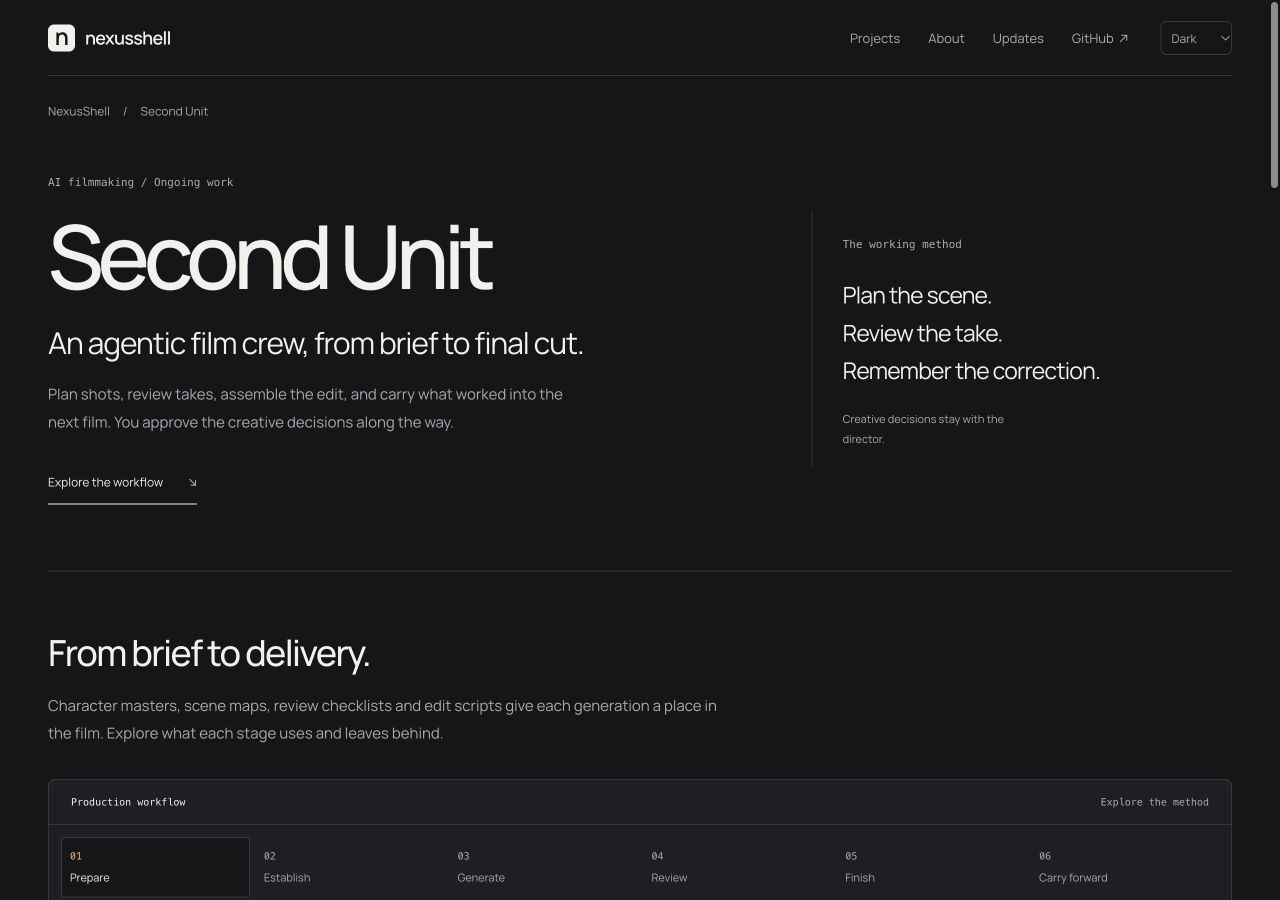
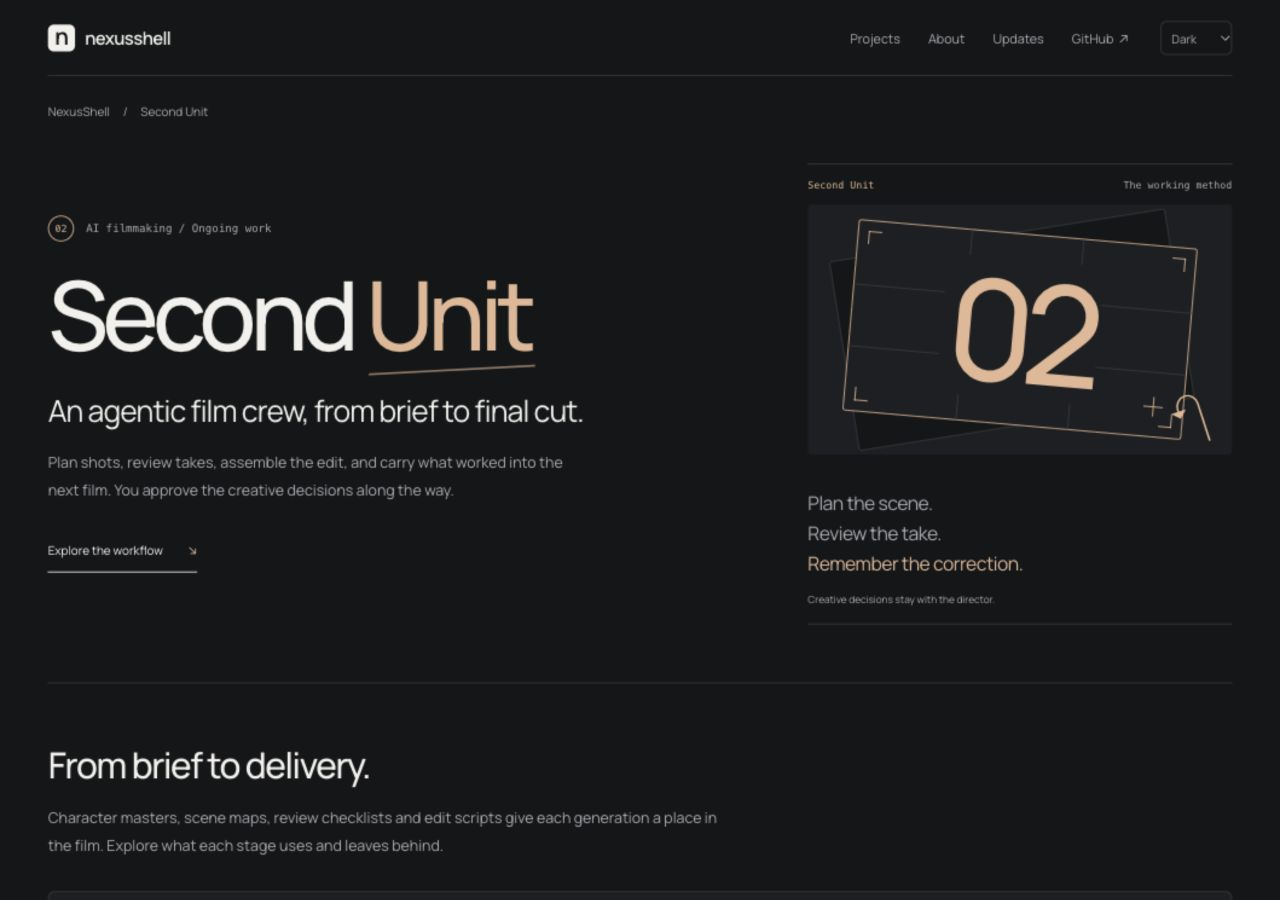
Give Second Unit a film-workshop visual identity

diff --git a/assets/second-unit.css b/assets/second-unit.css
@@ -5,18 +5,38 @@
 .su-page{padding-bottom:36px}
 .su-breadcrumb{display:flex;gap:13px;align-items:center;font-size:12px;color:var(--muted);padding-top:25px}
 .su-breadcrumb a{text-decoration:none}
-.su-hero{display:grid;grid-template-columns:minmax(0,1.65fr) minmax(220px,1fr);gap:70px;align-items:center;padding:52px 0 66px}
-.su-byline{font:11px/1.6 var(--mono);color:var(--muted);margin:0 0 17px}
-.su-hero h1{font-size:clamp(48px,7vw,88px);letter-spacing:-.065em;margin:0 0 20px;line-height:1.08}
+.su-hero{display:grid;grid-template-columns:minmax(0,1.65fr) minmax(260px,1fr);gap:60px;align-items:center;padding:42px 0 58px}
+.su-byline{display:flex;align-items:center;gap:12px;font:11px/1.6 var(--mono);color:var(--muted);margin:0 0 21px}
+.su-byline-mark{display:grid;place-items:center;width:26px;height:26px;border:1px solid var(--accent);color:var(--accent);font-size:10px;border-radius:50%;flex-shrink:0}
+.su-hero h1{font-size:clamp(48px,7.6vw,96px);letter-spacing:-.065em;margin:0 0 25px;line-height:1.08}
+.su-title-unit{position:relative;display:inline-block;color:var(--accent)}
+.su-title-unit:after{content:'';position:absolute;left:2%;right:-3%;bottom:-5px;border-bottom:2px solid var(--accent);transform:rotate(-3deg);opacity:.6}
 .su-headline{font-size:clamp(22px,2.5vw,30px);line-height:1.3;letter-spacing:-.035em;max-width:540px;margin-bottom:18px}
 .su-intro{max-width:530px;font-size:15px;color:var(--muted);line-height:1.85;margin-bottom:25px}
 .su-actions{display:flex;flex-wrap:wrap;gap:18px 27px}
 .su-action{font-size:12px;text-decoration:none;display:inline-flex;gap:25px;align-items:center;min-height:44px;border-bottom:1px solid var(--ink);white-space:nowrap}
 .su-action span{color:var(--accent)}
-.su-hero-note{border-left:1px solid var(--line);padding:16px 0 16px 30px}
-.su-note-label{font:11px var(--mono);color:var(--muted)}
-.su-hero-note p{font-size:23px;letter-spacing:-.035em;line-height:1.65;margin:20px 0}
-.su-hero-note>span:last-child{font-size:11px;line-height:1.8;color:var(--muted);display:block;max-width:180px}
+.su-production-art{margin:0;border-block:1px solid var(--line);min-width:0}
+.su-art-caption{display:flex;justify-content:space-between;gap:14px;padding:12px 0;font:10px/1.6 var(--mono);color:var(--muted)}
+.su-art-caption>span:first-child{color:var(--accent)}
+.su-frame-art{position:relative;height:250px;isolation:isolate;overflow:hidden;background:var(--surface);border-radius:4px}
+.su-art-frame{position:absolute;inset:29px 42px;border:1px solid var(--line);border-radius:3px}
+.su-art-frame-back{background:var(--bg);transform:rotate(-9deg) translate(-8px,-1px)}
+.su-art-frame-front{background:var(--surface);transform:rotate(5deg);display:grid;place-items:center;border-color:var(--accent)}
+.su-art-frame-front:before{content:'';position:absolute;inset:33.333% 0;border-block:1px solid var(--line);pointer-events:none}
+.su-art-frame-front:after{content:'';position:absolute;inset:0 33.333%;border-inline:1px solid var(--line);pointer-events:none}
+.su-art-number{position:relative;z-index:1;font:500 140px/1 Manrope,system-ui,sans-serif;letter-spacing:-.085em;padding-right:.085em;color:var(--accent);background:var(--surface);padding-inline:6px}
+.su-art-corner{position:absolute;width:13px;height:13px;border-color:var(--accent);border-style:solid}
+.su-art-corner-tl{left:10px;top:10px;border-width:1px 0 0 1px}.su-art-corner-tr{right:10px;top:10px;border-width:1px 1px 0 0}
+.su-art-corner-bl{left:10px;bottom:10px;border-width:0 0 1px 1px}.su-art-corner-br{right:10px;bottom:10px;border-width:0 1px 1px 0}
+.su-art-cross{position:absolute;width:19px;height:19px;right:20px;bottom:20px;z-index:2}
+.su-art-cross:before,.su-art-cross:after{content:'';position:absolute;background:var(--accent)}
+.su-art-cross:before{width:19px;height:1px;top:9px}.su-art-cross:after{width:1px;height:19px;left:9px}
+.su-art-arrow{position:absolute;z-index:3;right:16px;bottom:4px;font:400 59px/1 Manrope,system-ui,sans-serif;color:var(--accent);transform:rotate(-18deg)}
+.su-production-art figcaption{padding:20px 0 15px}
+.su-production-art figcaption p{font-size:19px;letter-spacing:-.03em;line-height:1.6;margin:0 0 12px}
+.su-production-art figcaption p>span{color:var(--accent)}
+.su-production-art figcaption>span{font-size:10px;color:var(--muted);line-height:1.8;display:block}
 .su-section{padding:60px 0;border-top:1px solid var(--line);scroll-margin-top:24px}
 .su-section-heading{max-width:680px;margin-bottom:32px}
 .su-section-heading h2{font-size:36px;letter-spacing:-.045em;line-height:1.16;margin-bottom:18px}
@@ -25,9 +45,12 @@
 .su-process-bar{display:flex;justify-content:space-between;gap:16px;padding:14px 22px;border-bottom:1px solid var(--line);font:10px/1.6 var(--mono);color:var(--muted)}
 .su-process-bar>span:first-child{color:var(--ink)}
 .su-stage-controls{display:grid;grid-template-columns:repeat(6,minmax(0,1fr));padding:12px;gap:5px;border-bottom:1px solid var(--line)}
-.su-stage-controls button{border:1px solid transparent;background:transparent;color:var(--muted);padding:10px 8px;border-radius:4px;min-height:55px;font:11px/1.6 Manrope,system-ui,sans-serif;text-align:left}
+.su-stage-controls button{border:1px solid transparent;background:transparent;color:var(--muted);padding:10px 8px;border-radius:4px;min-height:55px;font:11px/1.6 Manrope,system-ui,sans-serif;text-align:left;transition:transform 130ms var(--ease),background 160ms ease,border-color 160ms ease}
+.su-stage-controls button:active{transform:scale(.98)}
+.su-process[data-input=keyboard] .su-stage-controls button{transition:none}
+.su-process[data-input=keyboard] .su-stage-controls button:active{transform:none}
 .su-stage-controls button>span{display:block;font:10px/1.6 var(--mono);margin-bottom:5px}
-.su-stage-controls button[aria-pressed=true]{color:var(--ink);background:var(--bg);border-color:var(--line)}
+.su-stage-controls button[aria-pressed=true]{color:var(--ink);background:var(--bg);border-color:var(--accent)}
 .su-stage-controls button[aria-pressed=true]>span{color:var(--accent)}
 .su-step{display:grid;grid-template-columns:minmax(0,1.1fr) minmax(0,1fr);gap:44px;padding:30px;min-height:343px}
 .su-step+.su-step{border-top:1px solid var(--line)}
@@ -40,6 +63,7 @@
 .su-step-record dt{font:10px/1.6 var(--mono);color:var(--muted);margin-bottom:5px}
 .su-step-record dd{margin:0;font-size:12px;line-height:1.7}
 .su-step-record .su-human dd{color:var(--accent)}
+.su-step-record .su-human{border-top-style:dashed}
 .su-process-bottom{display:flex;justify-content:space-between;gap:15px;border-top:1px solid var(--line);padding:13px 22px;font-size:10px;color:var(--muted)}
 .su-process:not(.su-enhanced) .su-step{min-height:0}
 .su-reviewers{border-bottom:1px solid var(--line)}
@@ -47,7 +71,7 @@
 .su-reviewer summary{display:grid;grid-template-columns:220px 1fr 15px;align-items:center;gap:24px;padding:22px 0;list-style:none;cursor:pointer;font-size:16px;line-height:1.6}
 .su-reviewer summary::-webkit-details-marker{display:none}
 .su-reviewer-role{font-size:15px}
-.su-reviewer-role small{display:block;font:10px/1.6 var(--mono);color:var(--muted);margin-top:5px}
+.su-reviewer-role small{display:block;font:10px/1.6 var(--mono);color:var(--accent);margin-top:5px}
 .su-expand{font-size:23px;font-weight:400;color:var(--accent)}
 .su-reviewer[open] .su-expand{transform:rotate(45deg)}
 .su-reviewer>p{font-size:14px;color:var(--muted);line-height:1.9;max-width:620px;margin:0 0 25px 244px;padding-right:20px}
@@ -57,15 +81,17 @@
 .su-case-label strong{font:500 20px/1.5 Manrope,system-ui,sans-serif;color:var(--ink);letter-spacing:-.025em}
 .su-case-story{max-width:700px}
 .su-case-story>p{font-size:15px;line-height:1.9;color:var(--muted);margin-bottom:20px}
-.su-rule{border-left:2px solid var(--accent);padding:5px 0 5px 23px;margin:28px 0}
+.su-rule{border-left:2px solid var(--accent);padding:22px 24px;margin:28px 0;background:var(--surface);border-radius:0 5px 5px 0;position:relative}
+.su-rule:after{content:'';position:absolute;right:0;top:0;border-left:14px solid var(--line);border-top:14px solid var(--bg)}
 .su-rule>span{font:10px/1.6 var(--mono);color:var(--muted)}
 .su-rule h3{font-size:28px;line-height:1.2;margin:14px 0}
 .su-rule p{font-size:13px;line-height:1.9;color:var(--muted);margin:0;max-width:560px}
 .su-memory{margin-top:40px}
 .su-memory>h3{font-size:23px;margin-bottom:25px}
-.su-memory ol{display:grid;grid-template-columns:repeat(4,minmax(0,1fr));gap:25px;list-style:none;padding:0;margin:0}
-.su-memory li{border-top:1px solid var(--line);padding-top:16px;min-width:0}
-.su-memory li>span{font:10px/1.6 var(--mono);color:var(--accent)}
+.su-memory ol{display:grid;grid-template-columns:repeat(4,minmax(0,1fr));gap:25px;list-style:none;padding:0;margin:0;position:relative}
+.su-memory ol:before{content:'';position:absolute;top:15px;left:15px;right:15px;border-top:1px solid var(--line)}
+.su-memory li{min-width:0;position:relative}
+.su-memory li>span{font:10px/1 var(--mono);color:var(--accent);width:31px;height:31px;display:grid;place-items:center;border:1px solid var(--accent);border-radius:50%;background:var(--bg)}
 .su-memory li h3{font-size:16px;margin:13px 0 9px;letter-spacing:-.025em}
 .su-memory li p{font-size:12px;color:var(--muted);line-height:1.8;margin:0}
 .su-memory-note{font-size:12px;line-height:1.9;color:var(--muted);max-width:730px;margin:25px 0 0}
@@ -112,7 +138,7 @@
 @media(hover:hover) and (pointer:fine){.su-stage-controls button:hover{color:var(--ink);border-color:var(--line)}.su-reviewer summary:hover{color:var(--accent)}}
 @media(max-width:1328px){.second-unit-page .desk-footer{margin-inline:48px}}
 @media(max-width:1000px){.su-hero{gap:38px}.su-step{gap:25px;padding:24px}.su-step h3{font-size:26px}.su-stage-controls{grid-template-columns:repeat(3,minmax(0,1fr))}.su-stage-controls button{display:flex;gap:12px;align-items:center;min-height:44px}.su-stage-controls button>span{margin:0}.su-process-compact .su-step{grid-template-columns:1fr;gap:25px}.su-process-compact .su-step h3{max-width:none}.su-process-compact .su-step-copy>p{max-width:none}.su-process-compact .su-step-record{display:grid;grid-template-columns:1fr 1fr;gap:15px}.su-process-compact .su-step-record>div{border:0;padding:0}.su-reviewer summary{grid-template-columns:180px 1fr 15px}.su-reviewer>p{margin-left:204px}.su-case{grid-template-columns:180px 1fr}.su-adapters>div{grid-template-columns:180px 1fr 75px}.su-record-grid{gap:35px}.su-catalog-method span{margin-inline:5px}}
-@media(max-width:740px){.second-unit-page .wrap{padding-inline:22px}.second-unit-page .site-header .header-inner:after{left:22px;right:22px}.second-unit-page .header-inner{height:auto;min-height:110px}.su-breadcrumb{padding-top:20px;font-size:11px}.su-hero{display:block;padding:35px 0 40px}.su-hero h1{font-size:57px;margin-bottom:18px}.su-byline{font-size:10px}.su-headline{font-size:25px;max-width:400px}.su-intro{font-size:14px}.su-hero-note{margin-top:30px;padding:5px 0 5px 18px}.su-hero-note p{font-size:18px;line-height:1.7;margin:12px 0}.su-hero-note>span:last-child{max-width:none}.su-section{padding:38px 0}.su-section-heading{margin-bottom:25px}.su-section-heading h2{font-size:29px}.su-section-heading>p{font-size:14px}.su-process-bar{padding:12px 15px;font-size:9px}.su-stage-controls{padding:9px;gap:3px}.su-stage-controls button{font-size:10px;padding:8px 5px;gap:7px}.su-step,.su-process-compact .su-step{grid-template-columns:1fr;gap:27px;padding:23px 18px;min-height:0}.su-step h3,.su-process-compact .su-step h3{font-size:27px}.su-step-copy>p,.su-process-compact .su-step-copy>p{font-size:13px;max-width:none}.su-step-record dd{font-size:12px}.su-process-compact .su-step-record{grid-template-columns:1fr;gap:0}.su-process-compact .su-step-record>div{border-top:1px solid var(--line);padding-block:10px}.su-process-compact .su-step-record>div:first-child{border:0;padding-top:0}.su-process-bottom{padding:12px 15px;flex-direction:column;gap:8px;font-size:10px}.su-reviewer summary{grid-template-columns:1fr 15px;gap:12px;padding-block:19px;font-size:14px}.su-reviewer-role{grid-column:1 / 3;font-size:15px;display:flex;align-items:center;gap:15px}.su-reviewer-role small{margin:0}.su-reviewer>p{margin-left:0;font-size:13px;padding-right:20px}.su-case{grid-template-columns:1fr;gap:22px;padding-top:22px}.su-case-label{flex-direction:row;flex-wrap:wrap;align-items:center;gap:10px 18px}.su-case-label strong{order:-1;width:100%;font-size:21px}.su-case-story>p{font-size:14px}.su-rule h3{font-size:26px}.su-rule{padding-left:17px}.su-memory>h3{font-size:22px}.su-memory ol{grid-template-columns:1fr 1fr;gap:23px 18px}.su-record-grid{grid-template-columns:1fr;gap:28px}.su-record-grid p,.su-record-grid li{font-size:13px}.su-adapters>div{grid-template-columns:1fr auto;gap:9px;padding-block:16px}.su-adapters dt{grid-column:1 / 3;font-size:11px}.su-adapters dd{font-size:18px}.su-adapters span{font-size:10px}.su-engine-note{font-size:13px}.su-closing{display:block;padding-top:25px}.su-closing a{margin-top:15px}.second-unit-page .desk-footer{margin-inline:22px;flex-wrap:wrap;font-size:10px}.su-catalog-entry{grid-template-columns:1fr;gap:22px}.su-catalog-entry h3{font-size:28px}.su-catalog-method{text-align:left;font-size:11px}.su-films{grid-template-columns:1fr;gap:35px}}
+@media(max-width:740px){.second-unit-page .wrap{padding-inline:22px}.second-unit-page .site-header .header-inner:after{left:22px;right:22px}.second-unit-page .header-inner{height:auto;min-height:110px}.su-breadcrumb{padding-top:20px;font-size:11px}.su-hero{display:block;padding:35px 0 40px}.su-hero h1{font-size:57px;margin-bottom:18px}.su-byline{font-size:10px}.su-headline{font-size:25px;max-width:400px}.su-intro{font-size:14px}.su-production-art{max-width:420px;margin-top:30px}.su-frame-art{height:210px}.su-art-number{font-size:120px}.su-production-art figcaption p{font-size:18px;line-height:1.6}.su-production-art figcaption{padding-top:17px}.su-section{padding:38px 0}.su-section-heading{margin-bottom:25px}.su-section-heading h2{font-size:29px}.su-section-heading>p{font-size:14px}.su-process-bar{padding:12px 15px;font-size:9px}.su-stage-controls{padding:9px;gap:3px}.su-stage-controls button{font-size:10px;padding:8px 5px;gap:7px}.su-step,.su-process-compact .su-step{grid-template-columns:1fr;gap:27px;padding:23px 18px;min-height:0}.su-step h3,.su-process-compact .su-step h3{font-size:27px}.su-step-copy>p,.su-process-compact .su-step-copy>p{font-size:13px;max-width:none}.su-step-record dd{font-size:12px}.su-process-compact .su-step-record{grid-template-columns:1fr;gap:0}.su-process-compact .su-step-record>div{border-top:1px solid var(--line);padding-block:10px}.su-process-compact .su-step-record>div:first-child{border:0;padding-top:0}.su-process-bottom{padding:12px 15px;flex-direction:column;gap:8px;font-size:10px}.su-reviewer summary{grid-template-columns:1fr 15px;gap:12px;padding-block:19px;font-size:14px}.su-reviewer-role{grid-column:1 / 3;font-size:15px;display:flex;align-items:center;gap:15px}.su-reviewer-role small{margin:0}.su-reviewer>p{margin-left:0;font-size:13px;padding-right:20px}.su-case{grid-template-columns:1fr;gap:22px;padding-top:22px}.su-case-label{flex-direction:row;flex-wrap:wrap;align-items:center;gap:10px 18px}.su-case-label strong{order:-1;width:100%;font-size:21px}.su-case-story>p{font-size:14px}.su-rule h3{font-size:26px}.su-rule{padding-left:17px}.su-memory>h3{font-size:22px}.su-memory ol{grid-template-columns:1fr 1fr;gap:23px 18px}.su-memory ol:before{display:none}.su-record-grid{grid-template-columns:1fr;gap:28px}.su-record-grid p,.su-record-grid li{font-size:13px}.su-adapters>div{grid-template-columns:1fr auto;gap:9px;padding-block:16px}.su-adapters dt{grid-column:1 / 3;font-size:11px}.su-adapters dd{font-size:18px}.su-adapters span{font-size:10px}.su-engine-note{font-size:13px}.su-closing{display:block;padding-top:25px}.su-closing a{margin-top:15px}.second-unit-page .desk-footer{margin-inline:22px;flex-wrap:wrap;font-size:10px}.su-catalog-entry{grid-template-columns:1fr;gap:22px}.su-catalog-entry h3{font-size:28px}.su-catalog-method{text-align:left;font-size:11px}.su-films{grid-template-columns:1fr;gap:35px}}
 @media(max-width:370px){.second-unit-page .wrap{padding-inline:16px}.second-unit-page .site-header .header-inner:after{left:16px;right:16px}.su-hero h1{font-size:48px}.su-headline{font-size:23px}.su-step,.su-process-compact .su-step{padding-inline:14px}.su-stage-controls{grid-template-columns:repeat(2,minmax(0,1fr))}.su-stage-controls button{padding-inline:8px}.su-memory ol{gap:22px 14px}.su-memory li p{font-size:11px}.second-unit-page .desk-footer{margin-inline:16px}}
 @media(prefers-reduced-motion:reduce){.su-page *,[data-su-process] *{transition:none!important;animation:none!important}}
 @media(max-width:740px){.project-switcher .shelf-project[data-project-link=second-unit]{grid-column:1 / -1}}

diff --git a/second-unit/index.html b/second-unit/index.html
@@ -6,7 +6,7 @@
 <link rel="icon" href="/assets/favicon.svg" type="image/svg+xml"><link rel="preload" href="/assets/fonts/manrope-regular.ttf" as="font" type="font/ttf" crossorigin>
 <script>try{const t=localStorage.getItem('nexusshell-theme');if(t==='light'||t==='dark')document.documentElement.dataset.theme=t;}catch(_){}</script>
 <link rel="stylesheet" href="/assets/site.css?v=fcadb1ce42b3"><script defer src="/assets/site.js?v=e8c140962dc2"></script>
-<link rel="stylesheet" href="/assets/second-unit.css?v=6aa7ab784cf5"><script defer src="/assets/second-unit.js?v=14a30176ee07"></script><script type="application/ld+json">{"@context": "https://schema.org", "@type": "WebPage", "name": "Second Unit | Agentic film production | NexusShell", "url": "https://nexusshell.dev/second-unit/", "isPartOf": {"@type": "WebSite", "name": "NexusShell", "url": "https://nexusshell.dev/"}}</script>
+<link rel="stylesheet" href="/assets/second-unit.css?v=7bcee63542ef"><script defer src="/assets/second-unit.js?v=9f730068cdc5"></script><script type="application/ld+json">{"@context": "https://schema.org", "@type": "WebPage", "name": "Second Unit | Agentic film production | NexusShell", "url": "https://nexusshell.dev/second-unit/", "isPartOf": {"@type": "WebSite", "name": "NexusShell", "url": "https://nexusshell.dev/"}}</script>
 </head><body class="inner-page second-unit-page"><a class="skip-link" href="#main">Skip to content</a>
 <header class="site-header"><div class="wrap header-inner">
 <a class="brand" href="/" aria-label="NexusShell home"><span class="brand-mark" aria-hidden="true">n</span>nexusshell</a>
@@ -14,7 +14,7 @@
 <label class="sr-only" for="theme">Appearance</label><select class="theme-control" id="theme" data-theme-select hidden><option value="system">System</option><option value="light">Light</option><option value="dark">Dark</option></select>
 </div></header><main id="main" class="wrap"><article class="su-page">
 <nav class="su-breadcrumb" aria-label="Breadcrumb"><a href="/">NexusShell</a><span aria-hidden="true">/</span><span>Second Unit</span></nav>
-<header class="su-hero"><div><p class="su-byline">AI filmmaking / Ongoing work</p><h1>Second Unit</h1><p class="su-headline">An agentic film crew, from brief to final cut.</p><p class="su-intro">Plan shots, review takes, assemble the edit, and carry what worked into the next film. You approve the creative decisions along the way.</p><div class="su-actions"><a class="su-action" href="#workflow">Explore the workflow <span aria-hidden="true">↘</span></a></div></div><aside class="su-hero-note"><span class="su-note-label">The working method</span><p>Plan the scene.<br>Review the take.<br>Remember the correction.</p><span>Creative decisions stay with the director.</span></aside></header>
+<header class="su-hero"><div><p class="su-byline"><span class="su-byline-mark" aria-hidden="true">02</span> AI filmmaking / Ongoing work</p><h1>Second <span class="su-title-unit">Unit</span></h1><p class="su-headline">An agentic film crew, from brief to final cut.</p><p class="su-intro">Plan shots, review takes, assemble the edit, and carry what worked into the next film. You approve the creative decisions along the way.</p><div class="su-actions"><a class="su-action" href="#workflow">Explore the workflow <span aria-hidden="true">↘</span></a></div></div><figure class="su-production-art"><div class="su-art-caption"><span>Second Unit</span><span>The working method</span></div><div class="su-frame-art" aria-hidden="true"><div class="su-art-frame su-art-frame-back"></div><div class="su-art-frame su-art-frame-front"><span class="su-art-corner su-art-corner-tl"></span><span class="su-art-corner su-art-corner-tr"></span><span class="su-art-number">02</span><span class="su-art-corner su-art-corner-bl"></span><span class="su-art-corner su-art-corner-br"></span><span class="su-art-cross"></span></div><span class="su-art-arrow">↶</span></div><figcaption><p>Plan the scene.<br>Review the take.<br><span>Remember the correction.</span></p><span>Creative decisions stay with the director.</span></figcaption></figure></header>
 
 <section class="su-section su-workflow" id="workflow"><div class="su-section-heading"><h2>From brief to delivery.</h2><p>Character masters, scene maps, review checklists and edit scripts give each generation a place in the film. Explore what each stage uses and leaves behind.</p></div><div class="su-process " data-su-process><div class="su-process-bar"><span>Production workflow</span><span>Explore the method</span></div><div class="su-stage-controls" role="group" aria-label="Production stages" hidden><button type="button" data-su-step="0" aria-controls="production-prepare" aria-pressed="true"><span>01</span>Prepare</button><button type="button" data-su-step="1" aria-controls="production-establish" aria-pressed="false"><span>02</span>Establish</button><button type="button" data-su-step="2" aria-controls="production-generate" aria-pressed="false"><span>03</span>Generate</button><button type="button" data-su-step="3" aria-controls="production-review" aria-pressed="false"><span>04</span>Review</button><button type="button" data-su-step="4" aria-controls="production-finish" aria-pressed="false"><span>05</span>Finish</button><button type="button" data-su-step="5" aria-controls="production-carry-forward" aria-pressed="false"><span>06</span>Carry forward</button></div><div class="su-process-output" aria-live="polite" aria-atomic="true"><section class="su-step" id="production-prepare" data-su-frame="0" aria-labelledby="production-heading-0">
 <div class="su-step-copy"><span class="su-step-index">01 / 06 · Prepare</span><h3 id="production-heading-0">Give the film a direction.</h3><p>Start with the brief, budget and acceptance criteria. Analyse references for composition, light, colour and rhythm, then turn those observations into a story and a shot plan.</p></div>

diff --git a/index.html b/index.html
@@ -6,7 +6,7 @@
 <link rel="icon" href="/assets/favicon.svg" type="image/svg+xml"><link rel="preload" href="/assets/fonts/manrope-regular.ttf" as="font" type="font/ttf" crossorigin>
 <script>try{const t=localStorage.getItem('nexusshell-theme');if(t==='light'||t==='dark')document.documentElement.dataset.theme=t;}catch(_){}</script>
 <link rel="stylesheet" href="/assets/site.css?v=fcadb1ce42b3"><script defer src="/assets/site.js?v=e8c140962dc2"></script>
-<link rel="stylesheet" href="/assets/desk.css?v=022ca652bf5d"><script defer src="/assets/desk.js?v=d6f63cbc9ed2"></script><link rel="stylesheet" href="/assets/second-unit.css?v=6aa7ab784cf5"><script defer src="/assets/second-unit.js?v=14a30176ee07"></script><script type="application/ld+json">{"@context": "https://schema.org", "@type": "WebPage", "name": "NexusShell | Vadik’s project desk", "url": "https://nexusshell.dev/", "isPartOf": {"@type": "WebSite", "name": "NexusShell", "url": "https://nexusshell.dev/"}}</script>
+<link rel="stylesheet" href="/assets/desk.css?v=022ca652bf5d"><script defer src="/assets/desk.js?v=d6f63cbc9ed2"></script><link rel="stylesheet" href="/assets/second-unit.css?v=7bcee63542ef"><script defer src="/assets/second-unit.js?v=9f730068cdc5"></script><script type="application/ld+json">{"@context": "https://schema.org", "@type": "WebPage", "name": "NexusShell | Vadik’s project desk", "url": "https://nexusshell.dev/", "isPartOf": {"@type": "WebSite", "name": "NexusShell", "url": "https://nexusshell.dev/"}}</script>
 </head><body class="home-page"><a class="skip-link" href="#main">Skip to content</a>
 <header class="site-header"><div class="wrap header-inner">
 <a class="brand" href="/" aria-label="NexusShell home"><span class="brand-mark" aria-hidden="true">n</span>nexusshell</a>

diff --git a/assets/second-unit.js b/assets/second-unit.js
@@ -4,12 +4,27 @@
     const buttons = [...process.querySelectorAll('[data-su-step]')];
     const frames = [...process.querySelectorAll('[data-su-frame]')];
     if (!controls || buttons.length !== frames.length || !frames.length) return;
-    function select(index) {
+    const reducedMotion = window.matchMedia('(prefers-reduced-motion: reduce)');
+    let selected = -1;
+    let transition = null;
+    process.addEventListener('keydown', () => { process.dataset.input = 'keyboard'; });
+    process.addEventListener('pointerdown', () => { process.dataset.input = 'pointer'; });
+    function select(index, pointer = false) {
+      if (selected === index) return;
+      transition?.cancel();
+      transition = null;
       buttons.forEach((button, i) => button.setAttribute('aria-pressed', String(i === index)));
       frames.forEach((frame, i) => { frame.hidden = i !== index; });
+      selected = index;
+      if (pointer && !reducedMotion.matches && typeof frames[index].animate === 'function') {
+        transition = frames[index].animate(
+          [{ opacity: .55, transform: 'translateY(5px)' }, { opacity: 1, transform: 'translateY(0)' }],
+          { duration: 180, easing: 'cubic-bezier(.23,1,.32,1)' }
+        );
+      }
     }
     buttons.forEach((button, index) => {
-      button.addEventListener('click', () => select(index));
+      button.addEventListener('click', event => select(index, event.detail > 0));
       button.addEventListener('keydown', event => {
         let next;
         if (event.key === 'ArrowRight' || event.key === 'ArrowDown') next = (index + 1) % buttons.length;

diff --git a/projects/index.html b/projects/index.html
@@ -6,7 +6,7 @@
 <link rel="icon" href="/assets/favicon.svg" type="image/svg+xml"><link rel="preload" href="/assets/fonts/manrope-regular.ttf" as="font" type="font/ttf" crossorigin>
 <script>try{const t=localStorage.getItem('nexusshell-theme');if(t==='light'||t==='dark')document.documentElement.dataset.theme=t;}catch(_){}</script>
 <link rel="stylesheet" href="/assets/site.css?v=fcadb1ce42b3"><script defer src="/assets/site.js?v=e8c140962dc2"></script>
-<link rel="stylesheet" href="/assets/second-unit.css?v=6aa7ab784cf5"><script type="application/ld+json">{"@context": "https://schema.org", "@type": "WebPage", "name": "Projects | NexusShell", "url": "https://nexusshell.dev/projects/", "isPartOf": {"@type": "WebSite", "name": "NexusShell", "url": "https://nexusshell.dev/"}}</script>
+<link rel="stylesheet" href="/assets/second-unit.css?v=7bcee63542ef"><script type="application/ld+json">{"@context": "https://schema.org", "@type": "WebPage", "name": "Projects | NexusShell", "url": "https://nexusshell.dev/projects/", "isPartOf": {"@type": "WebSite", "name": "NexusShell", "url": "https://nexusshell.dev/"}}</script>
 </head><body class="inner-page"><a class="skip-link" href="#main">Skip to content</a>
 <header class="site-header"><div class="wrap header-inner">
 <a class="brand" href="/" aria-label="NexusShell home"><span class="brand-mark" aria-hidden="true">n</span>nexusshell</a>

diff --git a/website/second_unit.py b/website/second_unit.py
@@ -46,7 +46,7 @@ def render_page():
     closing = '<br>'.join(e(line) for line in CLOSING)
     return f'''<article class="su-page">
 <nav class="su-breadcrumb" aria-label="Breadcrumb"><a href="/">NexusShell</a><span aria-hidden="true">/</span><span>Second Unit</span></nav>
-<header class="su-hero"><div><p class="su-byline">AI filmmaking / Ongoing work</p><h1>{TITLE}</h1><p class="su-headline">{SUMMARY}</p><p class="su-intro">{DESCRIPTION}</p><div class="su-actions">{film_link}<a class="su-action" href="#workflow">Explore the workflow <span aria-hidden="true">↘</span></a></div></div><aside class="su-hero-note"><span class="su-note-label">The working method</span><p>Plan the scene.<br>Review the take.<br>Remember the correction.</p><span>Creative decisions stay with the director.</span></aside></header>
+<header class="su-hero"><div><p class="su-byline"><span class="su-byline-mark" aria-hidden="true">02</span> AI filmmaking / Ongoing work</p><h1>Second <span class="su-title-unit">Unit</span></h1><p class="su-headline">{SUMMARY}</p><p class="su-intro">{DESCRIPTION}</p><div class="su-actions">{film_link}<a class="su-action" href="#workflow">Explore the workflow <span aria-hidden="true">↘</span></a></div></div><figure class="su-production-art"><div class="su-art-caption"><span>Second Unit</span><span>The working method</span></div><div class="su-frame-art" aria-hidden="true"><div class="su-art-frame su-art-frame-back"></div><div class="su-art-frame su-art-frame-front"><span class="su-art-corner su-art-corner-tl"></span><span class="su-art-corner su-art-corner-tr"></span><span class="su-art-number">02</span><span class="su-art-corner su-art-corner-bl"></span><span class="su-art-corner su-art-corner-br"></span><span class="su-art-cross"></span></div><span class="su-art-arrow">↶</span></div><figcaption><p>Plan the scene.<br>Review the take.<br><span>Remember the correction.</span></p><span>Creative decisions stay with the director.</span></figcaption></figure></header>
 {films()}
 <section class="su-section su-workflow" id="workflow"><div class="su-section-heading"><h2>From brief to delivery.</h2><p>Character masters, scene maps, review checklists and edit scripts give each generation a place in the film. Explore what each stage uses and leaves behind.</p></div>{process('production')}</section>
 <section class="su-section" id="review"><div class="su-section-heading"><h2>Review is part of the workflow.</h2><p>Separate reviewer agents inspect the work. The director approves the keyframes and the cut before accepted takes move to delivery.</p></div><div class="su-reviewers">{reviewers}</div><p class="su-craft-note">{e(CRAFT_NOTE)}</p></section>

diff --git a/website/DESIGN.md b/website/DESIGN.md
@@ -50,3 +50,23 @@ Recognition remains a quiet link to precise categories and supporting evidence.
 No new personal role, award, usage, financial result, or project-status claims were
 introduced. Route slugs, source content, inner pages, and legacy Synrail anchors
 remain available. See QA.md for verification scope and limits.
+
+## Second Unit: creative polish
+
+17 November 2026. The owner asked for a little more character on the film-product
+page after approving its content. The existing portfolio palette, themes and
+information architecture remain the foundation. Dials: DESIGN_VARIANCE 5,
+MOTION_INTENSITY 3, VISUAL_DENSITY 5.
+
+| Before | After | Why |
+| --- | --- | --- |
+| A text-only side note in the opening | A small native framing composition with an 02 mark | Give the production workflow a visual identity before films are selected |
+| Uniform title colour | The same warm accent on Unit and a restrained underline | Make the product name recognisable without introducing another type family |
+| Plain case-study rule | A highlighted production note with a folded corner | Let the specific lesson stand out while reading |
+| Four separate memory columns | Connected numbered nodes on desktop, a compact grid on mobile | Show that recorded feedback travels into the next run |
+| Immediate pointer step replacement | Interruptible 180ms opacity/5px transition | Clarify the selected stage; keyboard changes stay instant |
+
+The framing graphic is decorative native HTML/CSS, not a generated shot, recording
+or claimed production output. It is hidden from assistive technology. There is
+no continuous motion; reduced-motion preferences disable the stage animation.
+Selected films still require the author's media choice.

diff --git a/website/SECOND_UNIT_QA.md b/website/SECOND_UNIT_QA.md
@@ -29,3 +29,18 @@ Limits: no generated video is running on this website. The source workflow,
 generation providers, budget enforcement and aggregate counts were not audited.
 Film playback and poster loading require another check after selected media is added.
 This is not a full accessibility or performance audit.
+
+## Creative polish, 17 November
+
+- Inspected the new framing graphic in dark desktop and light mobile layouts.
+  Decorative geometry is aria-hidden, and the original text remains readable.
+- Rechecked all six pointer selections: one visible stage, stable 519.6px process
+  height at 1280px, no horizontal overflow. Keyboard Home updates selection and
+  focus immediately with the input mode marked as keyboard.
+- Independent review found the animation cancellation path assumed getAnimations.
+  A local compatibility page reproduced the failure with getAnimations and animate
+  unavailable, then passed after tracking only the owned animation handle.
+  The temporary compatibility page was removed.
+- The hero and framing illustration fit 320px and 768px without overflow. The memory line
+  becomes a two-column layout on narrow screens.
+- No films or private production assets were added during this presentation pass.
